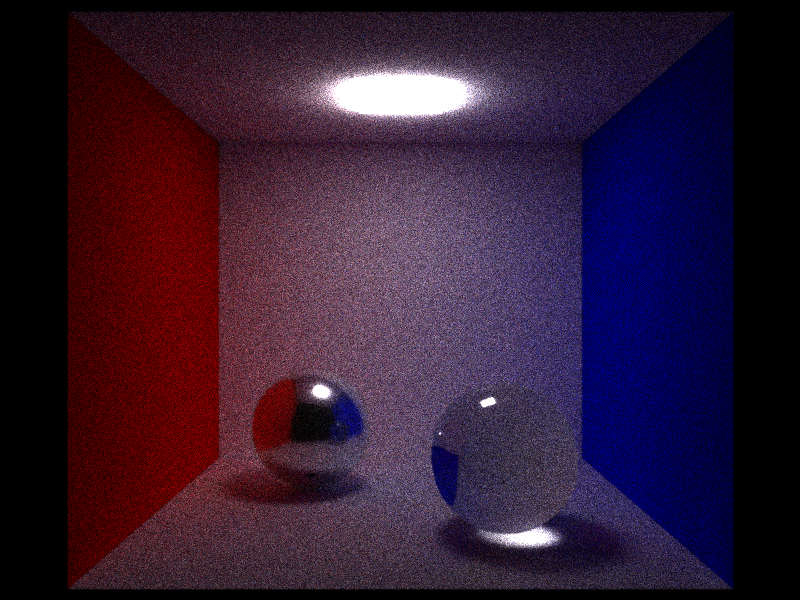
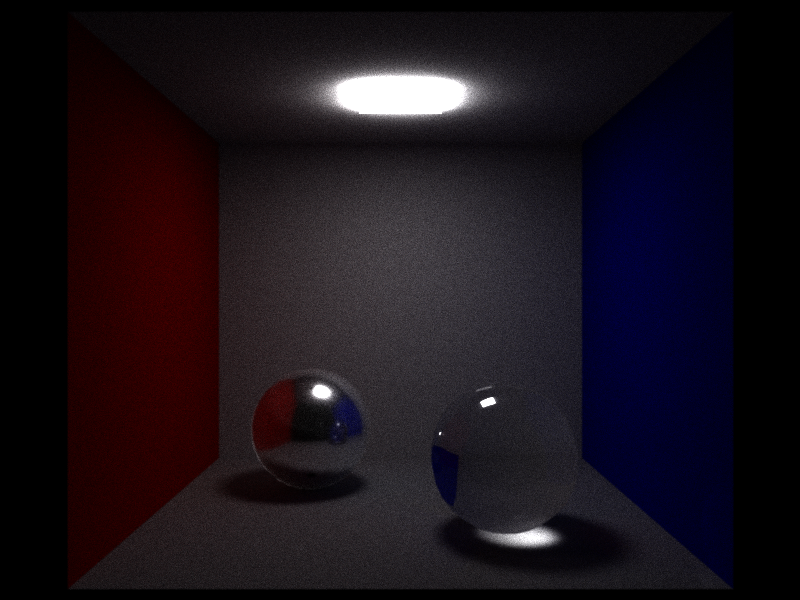
illum35 5K sample

diff --git a/CVMCTracer/CVMCTracer/stdafx.h b/CVMCTracer/CVMCTracer/stdafx.h
@@ -40,6 +40,6 @@ using PWVector4f = struct _PWVector4f
 
 const PWuint IMG_WIDTH = 800;
 const PWuint IMG_HEIGHT = 600;
-const PWuint NUM_SAMPLES = 1000;
-#define ILLUM 20
+const PWuint NUM_SAMPLES = 5000;
+#define ILLUM 35
 #define PW_PI 3.14159265359f
